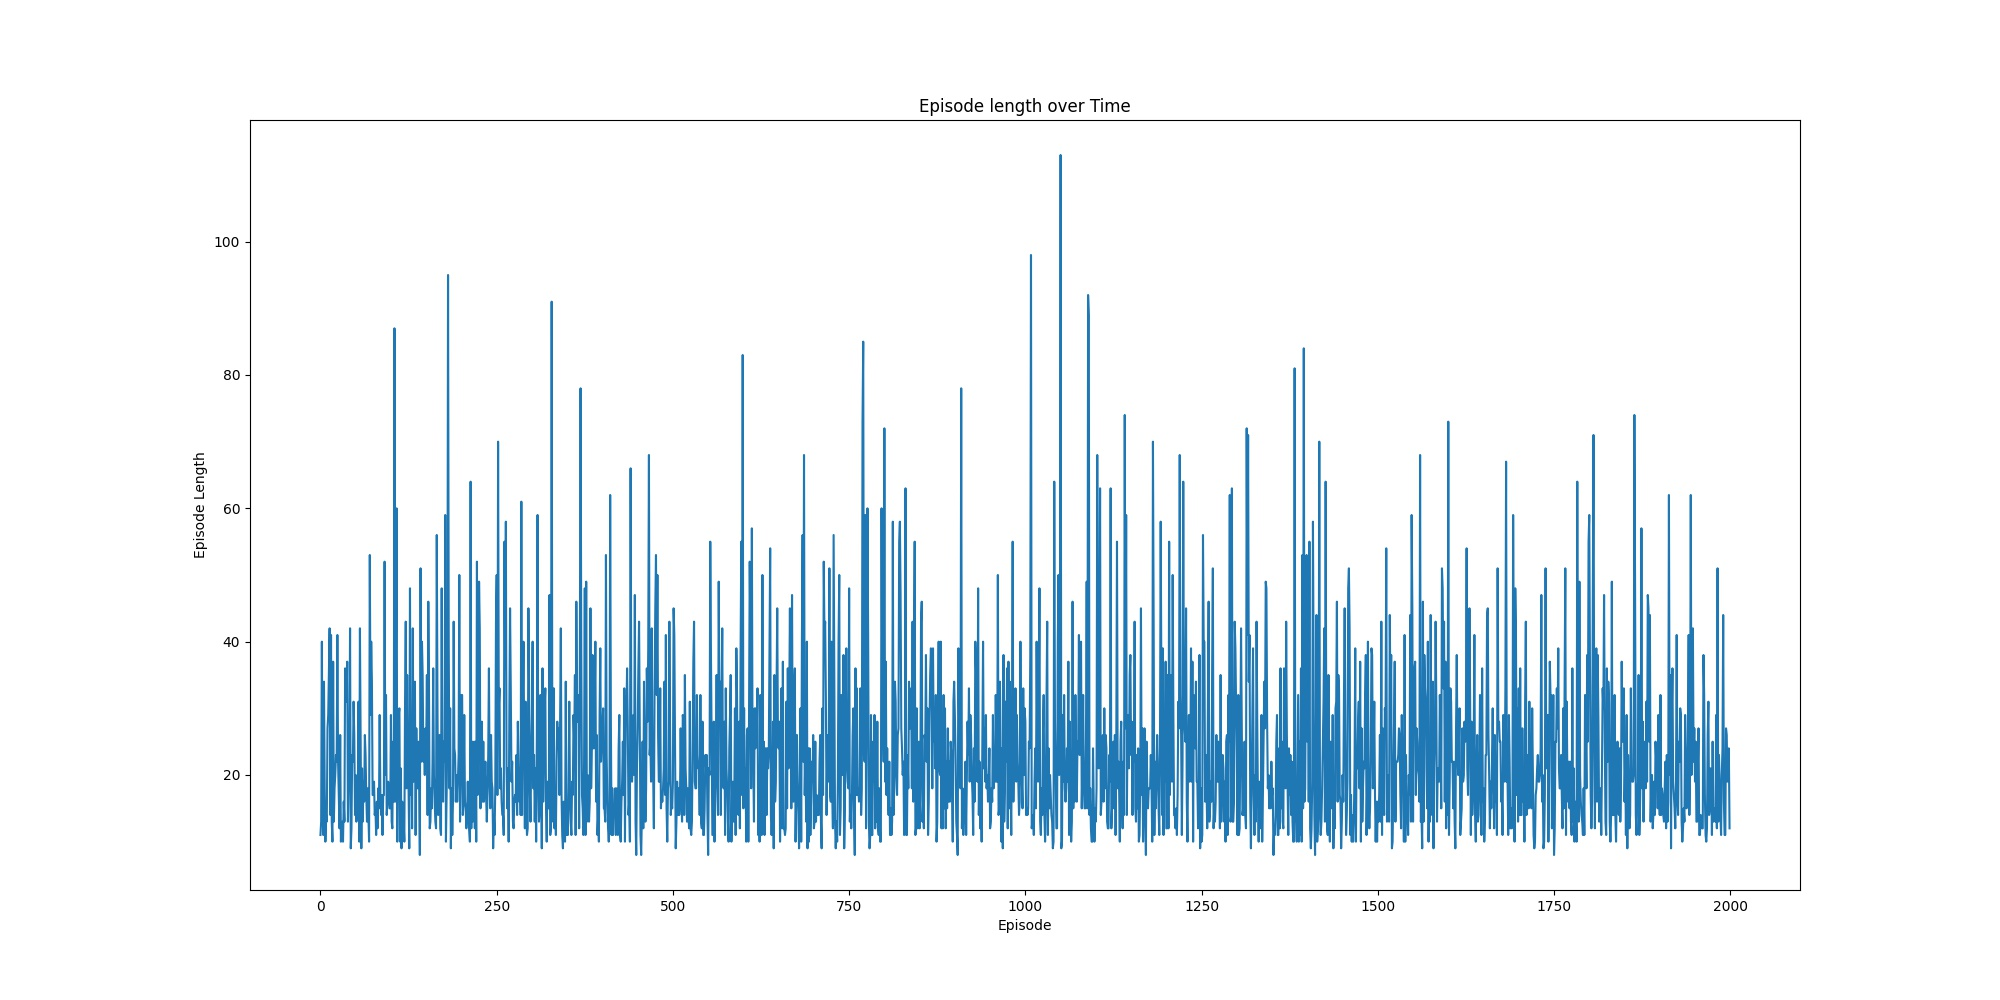
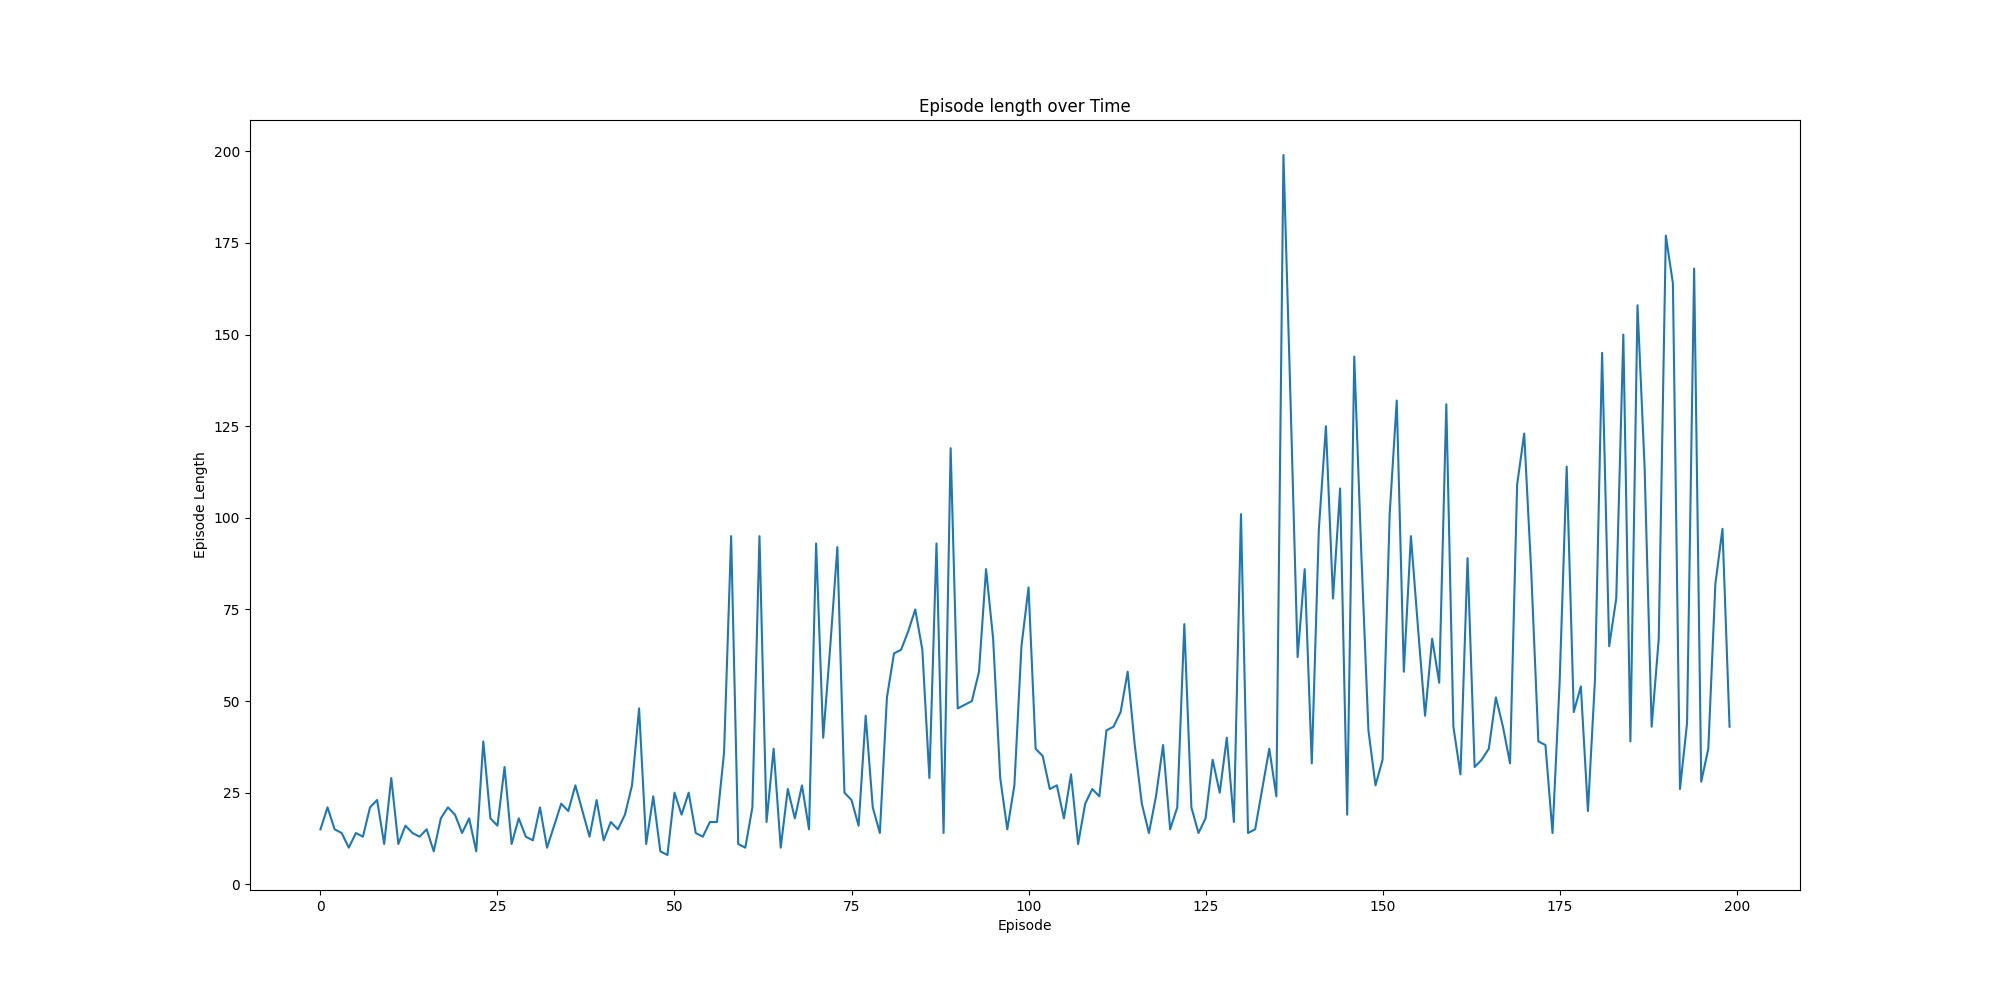
modify Qlearning and sarsa

diff --git a/TemppralDifference/QLearning_RBF.py b/TemppralDifference/QLearning_RBF.py
@@ -1,8 +1,7 @@
 # coding: UTF-8
 
 """
-This file is the implementation for the QLearning Algorith
-We use approximate function and RBF is used here.
+This file is the implementation for the QLearning Algorithm
 It is specified to solve the CartPole issue
 """
 
@@ -12,55 +11,23 @@ import numpy as np
 import sys
 import time
 import pandas as pd
-from collections import namedtuple,defaultdict
-
-from sklearn.pipeline import FeatureUnion
-from sklearn.preprocessing import StandardScaler as Scaler 
-from sklearn.linear_model import SGDRegressor as SGD 
-from sklearn.kernel_approximation import RBFSampler as RBF 
-
+from collections import namedtuple
 from Plot2DResult import *
-
 
 class QLearning():
     def __init__(self, actions, discount=1.0, alpha=0.5, epsilon=0.1):
         self.actions = actions
-        self.nA = len(actions)
         self.discount = discount
         self.alpha = alpha
         self.epsilon = epsilon
         
-        # data normalization
-        self.scaler = Scaler()
-        self.scaler.fit(state_example)
+        # Create the Q tables
+        self.Q_table = pd.DataFrame(columns=self.actions, dtype=np.float64)
     
-    # Create the RBF estimator
-    def Estimator(self, state_example, state):
-        # feature extractor
-        self.featurizer = FeatureUnion([
-            ("rbf1",RBF(gamma=5.0, n_components=100)),
-            ("rbf2",RBF(gamma=1.0, n_components=100)),
-            ])
-        self.featurizer.fit(self.scaler.transform(state_example))
-
-        # action model
-        self.action_model = []
-        for actionnumber in range(self.nA):
-            model = SGD(learning_rate = "constant")
-            model.partial_fit = ([self.__featurize_state(state)],[0])
-            self.action_model.append(model)
-
-    def __featurize_state(self, state):
-        scaled = self.scaler.transform([state])
-        featurized = self.featurizer.transform()
-
-        
-
-
     def choose_action(self, observation):
         self.check_state_exist(observation)
         # select action
-        if np.random.uniform() < self.epsilon:
+        if np.random.uniform() > self.epsilon:
             # choose the best action
             state_action = self.Q_table.loc[observation,:]
             action = np.random.choice(state_action[state_action == np.max(state_action)].index)
@@ -72,10 +39,8 @@ class QLearning():
     def learn(self, s, a, r, s_,done):
         self.check_state_exist(s_)
         q_predict = self.Q_table.loc[s, a]
-        if done:
-            q_target = r
-        else:
-            q_target = r + self.discount * self.Q_table.loc[s_,:].max()
+        q_target = r + self.discount * self.Q_table.loc[s_,:].max()
+       
         # update
         self.Q_table.loc[s, a] += self.alpha * (q_target - q_predict)
 
@@ -90,8 +55,6 @@ class QLearning():
                         )
                     )
         
-
-
 
 
 
@@ -123,8 +86,7 @@ def cut_state_to_bins(n_bins=10):
     return [CartPole_Cart_position_bins, CartPole_Pole_angle_bins,
             CartPole_Cart_velocity_bins, CartPole_angle_rate_bins]
 
-def convert_state(state, n_bins=10):
-    bins = cut_state_to_bins(n_bins)
+def convert_state(state, bins):
     converd_state = get_bins_states(state, bins)
     return str(converd_state)
 
@@ -134,18 +96,20 @@ def update(RL, env, num_episodes):
     
     rec = record(episode_lengths=np.zeros(num_episodes),
                           episode_rewards=np.zeros(num_episodes))
+   
+    bins = cut_state_to_bins(n_bins=10)
     
     for i_episode in range(num_episodes):
         if 0 == (i_episode +1) % 2:
             print("This the episode {}/{}".format(i_episode, num_episodes), end = "\r")
         observation_ = env.reset()
         step =0
+        observation = convert_state(observation_, bins)
         while True:
             #env.render()
-            observation = convert_state(observation_)
             action = RL.choose_action(observation)
             observation_next_, reward, done, info = env.step(action)
-            observation_next = convert_state(observation_next_)
+            observation_next = convert_state(observation_next_, bins)
             RL.learn(observation, action, reward, observation_next, done)
             observation = observation_next
             
@@ -163,7 +127,8 @@ def update(RL, env, num_episodes):
 
 
 if __name__ == "__main__":
-    num_episodes = 2000
+    start_time = time.time()
+    num_episodes = 200
     env = gym.make("CartPole-v0")
     actions = [i for i in range(env.action_space.n)] 
     RL = QLearning(actions, discount=1.0, alpha=0.5, epsilon=0.1)
@@ -187,6 +152,9 @@ if __name__ == "__main__":
                        title = "Episode reward over time"
             )
     fig.savefig("./log/QLearning_CartPole_EpisodeReward.jpg")
+
+    end_time= time.time()
+    print("This alogrithm cost time is :",end_time-start_time)
 
 
 

diff --git a/TemppralDifference/QLearning_tabular.py b/TemppralDifference/QLearning_tabular.py
@@ -27,7 +27,7 @@ class QLearning():
     def choose_action(self, observation):
         self.check_state_exist(observation)
         # select action
-        if np.random.uniform() < self.epsilon:
+        if np.random.uniform() > self.epsilon:
             # choose the best action
             state_action = self.Q_table.loc[observation,:]
             action = np.random.choice(state_action[state_action == np.max(state_action)].index)
@@ -39,10 +39,8 @@ class QLearning():
     def learn(self, s, a, r, s_,done):
         self.check_state_exist(s_)
         q_predict = self.Q_table.loc[s, a]
-        if done:
-            q_target = r
-        else:
-            q_target = r + self.discount * self.Q_table.loc[s_,:].max()
+        q_target = r + self.discount * self.Q_table.loc[s_,:].max()
+       
         # update
         self.Q_table.loc[s, a] += self.alpha * (q_target - q_predict)
 
@@ -88,8 +86,7 @@ def cut_state_to_bins(n_bins=10):
     return [CartPole_Cart_position_bins, CartPole_Pole_angle_bins,
             CartPole_Cart_velocity_bins, CartPole_angle_rate_bins]
 
-def convert_state(state, n_bins=10):
-    bins = cut_state_to_bins(n_bins)
+def convert_state(state, bins):
     converd_state = get_bins_states(state, bins)
     return str(converd_state)
 
@@ -99,18 +96,20 @@ def update(RL, env, num_episodes):
     
     rec = record(episode_lengths=np.zeros(num_episodes),
                           episode_rewards=np.zeros(num_episodes))
+   
+    bins = cut_state_to_bins(n_bins=10)
     
     for i_episode in range(num_episodes):
         if 0 == (i_episode +1) % 2:
             print("This the episode {}/{}".format(i_episode, num_episodes), end = "\r")
         observation_ = env.reset()
         step =0
+        observation = convert_state(observation_, bins)
         while True:
             #env.render()
-            observation = convert_state(observation_)
             action = RL.choose_action(observation)
             observation_next_, reward, done, info = env.step(action)
-            observation_next = convert_state(observation_next_)
+            observation_next = convert_state(observation_next_, bins)
             RL.learn(observation, action, reward, observation_next, done)
             observation = observation_next
             
@@ -128,7 +127,8 @@ def update(RL, env, num_episodes):
 
 
 if __name__ == "__main__":
-    num_episodes = 2000
+    start_time = time.time()
+    num_episodes = 200
     env = gym.make("CartPole-v0")
     actions = [i for i in range(env.action_space.n)] 
     RL = QLearning(actions, discount=1.0, alpha=0.5, epsilon=0.1)
@@ -152,6 +152,9 @@ if __name__ == "__main__":
                        title = "Episode reward over time"
             )
     fig.savefig("./log/QLearning_CartPole_EpisodeReward.jpg")
+
+    end_time= time.time()
+    print("This alogrithm cost time is :",end_time-start_time)
 
 
 

diff --git a/TemppralDifference/Sarsa_tabular.py b/TemppralDifference/Sarsa_tabular.py
@@ -27,7 +27,7 @@ class Sarsa():
     def choose_action(self, observation):
         self.check_state_exist(observation)
         # select action
-        if np.random.uniform() < self.epsilon:
+        if np.random.uniform() > self.epsilon:
             # choose the best action
             state_action = self.Q_table.loc[observation,:]
             action = np.random.choice(state_action[state_action == np.max(state_action)].index)
@@ -39,10 +39,7 @@ class Sarsa():
     def learn(self, s, a, r, s_,a_,done):
         self.check_state_exist(s_)
         q_predict = self.Q_table.loc[s, a]
-        if done:
-            q_target = r
-        else:
-            q_target = r + self.discount * self.Q_table.loc[s_,a_]
+        q_target = r + self.discount * self.Q_table.loc[s_,a_]
         # update
         self.Q_table.loc[s, a] += self.alpha * (q_target - q_predict)
 
@@ -88,8 +85,7 @@ def cut_state_to_bins(n_bins=10):
     return [CartPole_Cart_position_bins, CartPole_Pole_angle_bins,
             CartPole_Cart_velocity_bins, CartPole_angle_rate_bins]
 
-def convert_state(state, n_bins=10):
-    bins = cut_state_to_bins(n_bins)
+def convert_state(state, bins):
     converd_state = get_bins_states(state, bins)
     return str(converd_state)
 
@@ -100,17 +96,18 @@ def update(RL, env, num_episodes):
     rec = record(episode_lengths=np.zeros(num_episodes),
                           episode_rewards=np.zeros(num_episodes))
     
+    bins = cut_state_to_bins(n_bins=10)
     for i_episode in range(num_episodes):
         if 0 == (i_episode +1) % 2:
             print("This the episode {}/{}".format(i_episode, num_episodes), end = "\r")
         observation_ = env.reset()
         step =0
+        observation = convert_state(observation_, bins)
         while True:
             #env.render()
-            observation = convert_state(observation_)
             action = RL.choose_action(observation)
             observation_next_, reward, done, info = env.step(action)
-            observation_next = convert_state(observation_next_)
+            observation_next = convert_state(observation_next_, bins)
             action_next = RL.choose_action(observation_next)
 
             RL.learn(observation, action, reward, observation_next, action_next, done)
@@ -130,8 +127,10 @@ def update(RL, env, num_episodes):
 
 
 if __name__ == "__main__":
+    start_time = time.time()
     num_episodes = 200
     env = gym.make("CartPole-v0")
+    env.seed(2)
     actions = [i for i in range(env.action_space.n)] 
     RL = Sarsa(actions, discount=1.0, alpha=0.5, epsilon=0.1)
 
@@ -156,7 +155,8 @@ if __name__ == "__main__":
                        title = "Episode reward over time"
             )
     fig.savefig("./log/Sarsa_CartPole_EpisodeReward.jpg")
-
+    end_time = time.time()
+    print("This alogrithm cost time is :", end_time-start_time)
 
 
 
